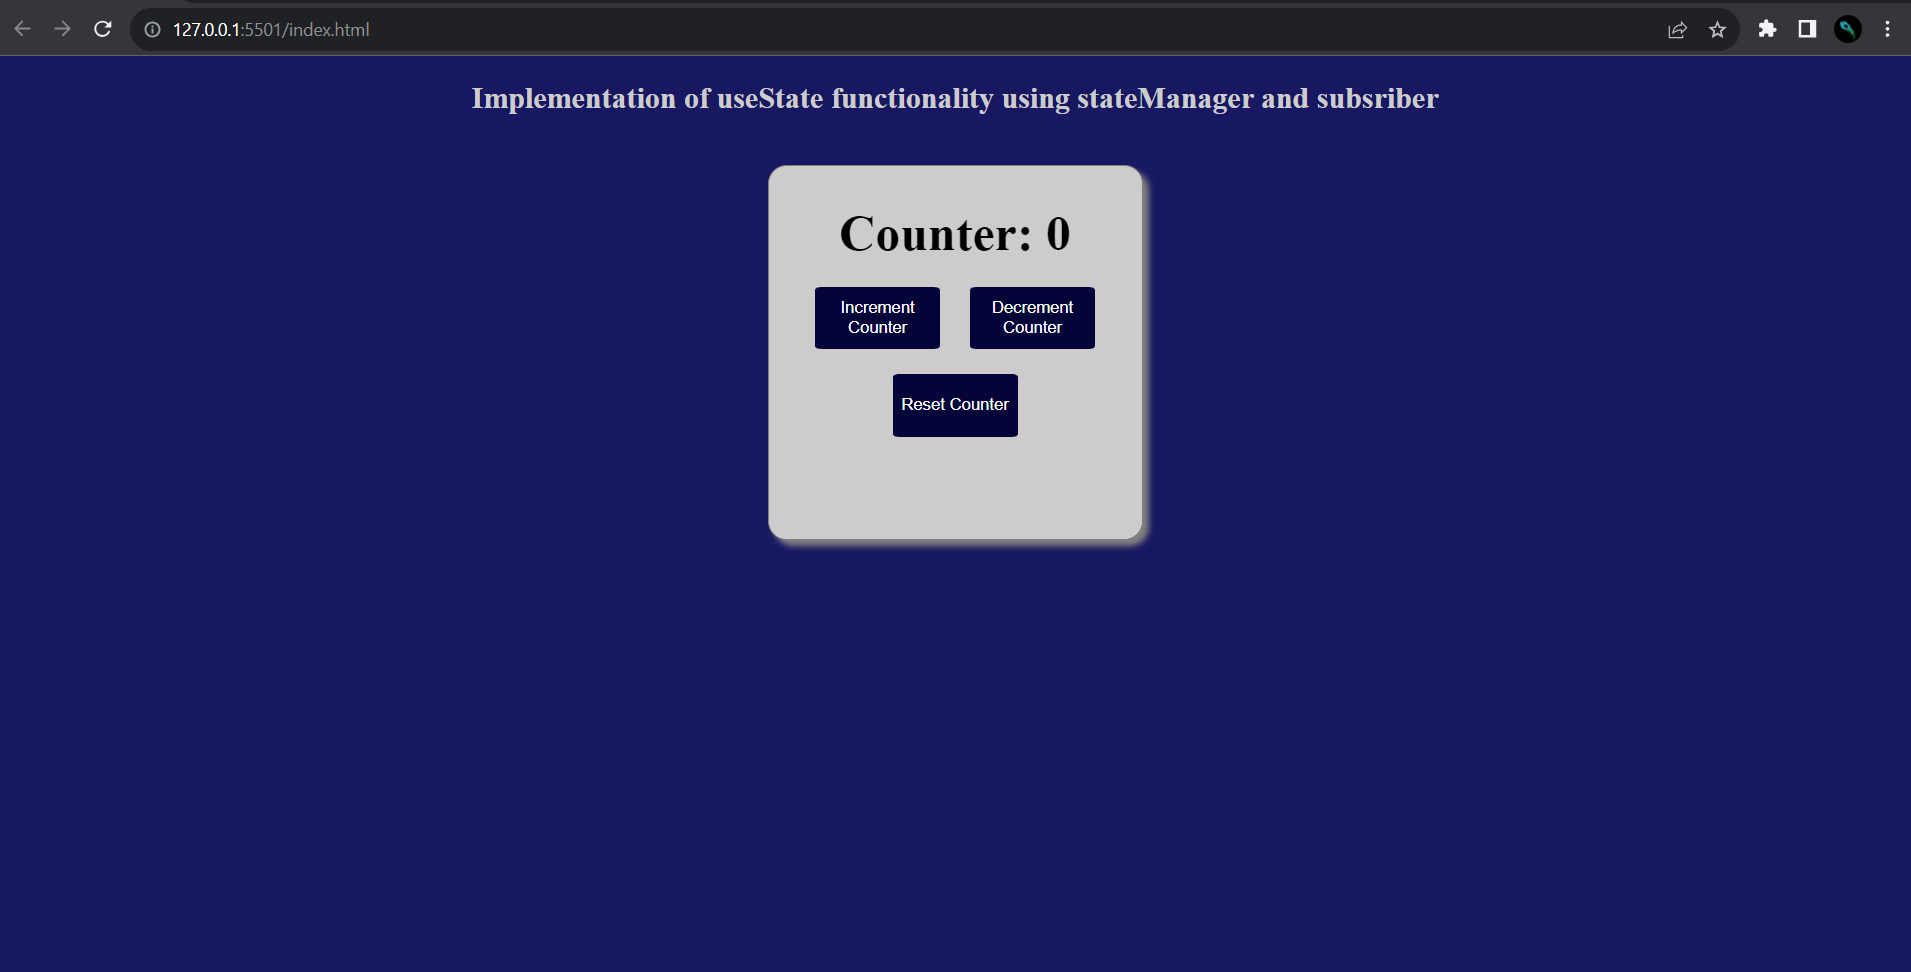
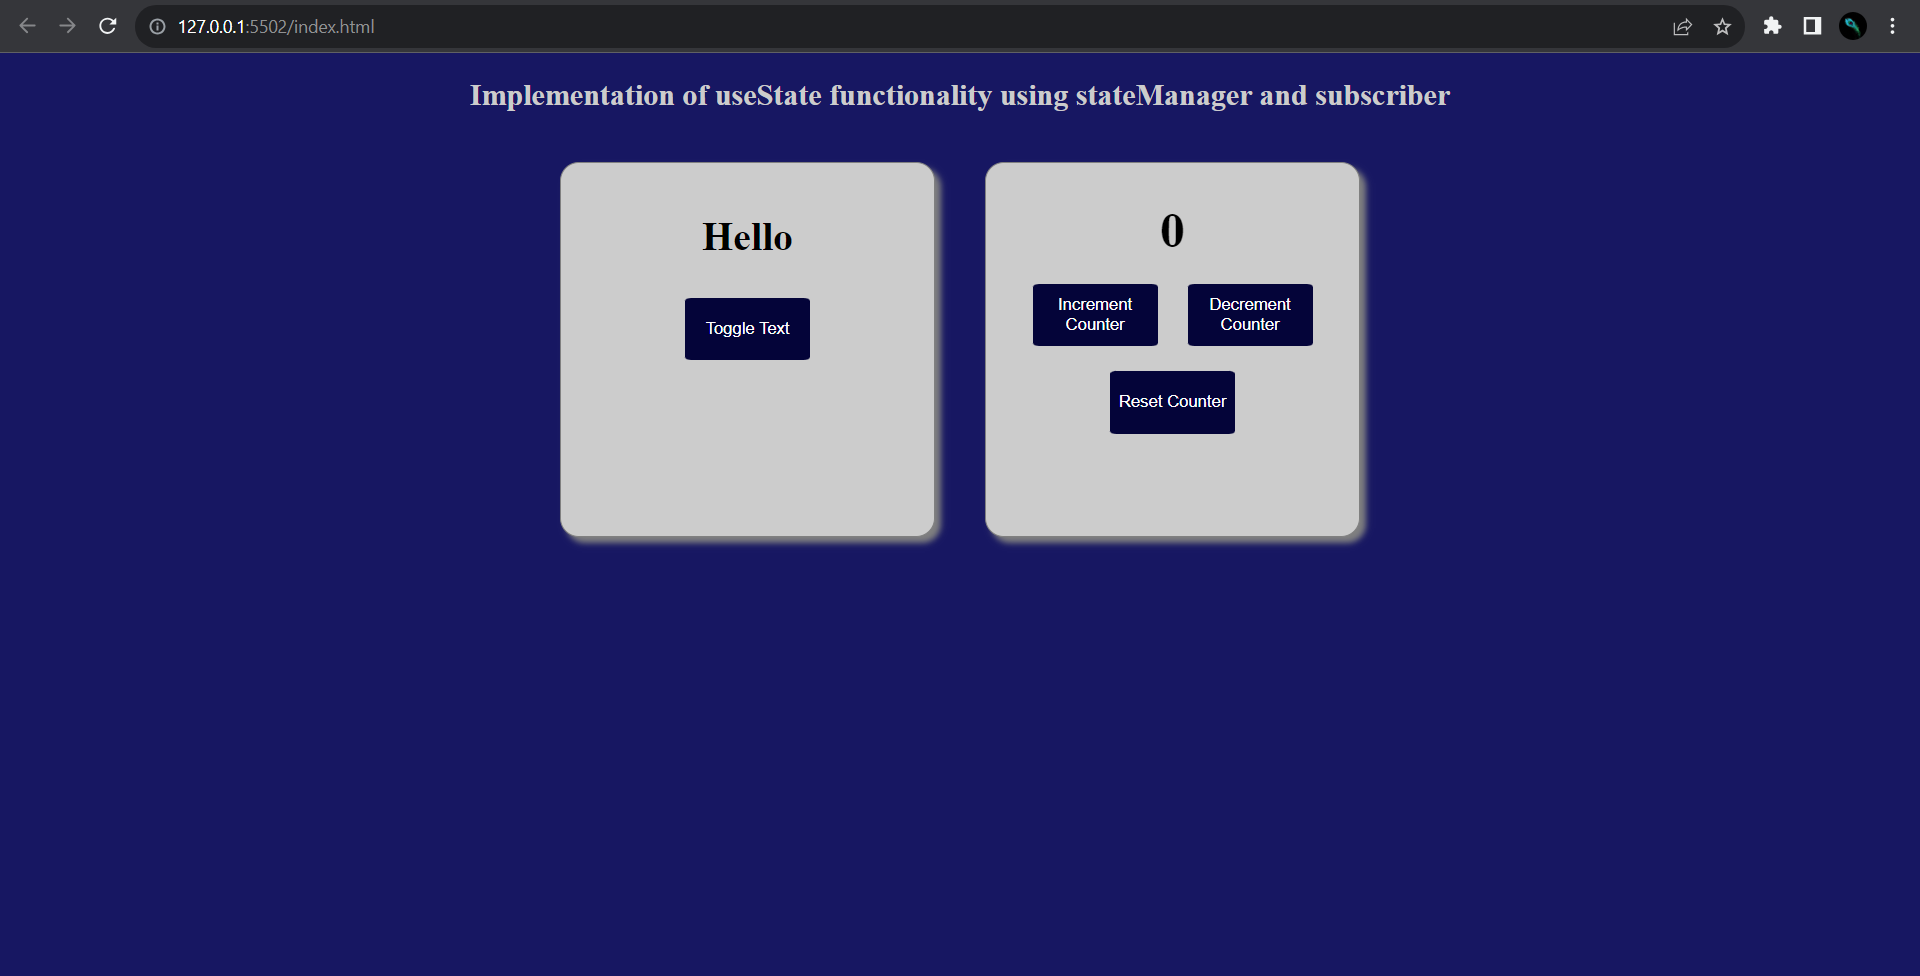
Multiple state components

Changed region(s): [[0.2779, 0.1543, 0.7101, 0.5864], [0.0, 0.0, 1.0, 0.0617], [0.247, 0.0926, 0.7718, 0.1235]]

diff --git a/script.js b/script.js
@@ -11,7 +11,6 @@ class StateManager {
   setState(newState) {
     this.state = newState;
     this.notifySubscribers();
-    localStorage.setItem("counter", newState);
   }
 
   subscribe(subscriber) {
@@ -37,14 +36,25 @@ class Renderer {
   }
 
   update(newState) {
-    this.element.textContent = `Counter: ${newState}`;
+    this.element.textContent = `${newState}`;
   }
 }
 
 document.addEventListener("DOMContentLoaded", () => {
   const counter = parseInt(localStorage.getItem("counter")) || 0;
   const counterManager = new StateManager(counter);
+  const text = localStorage.getItem("text") || "Hello";
+  const textManager = new StateManager(text);
 
+  const appRenderer2 = new Renderer("app", textManager);
+  const toggleButton = document.getElementById("toggleButton");
+
+  toggleButton.addEventListener("click", () => {
+    const currentState = textManager.getState();
+    const newState = currentState === "Hello" ? "Bye" : "Hello";
+    textManager.setState(newState);
+    localStorage.setItem("text", newState);
+  });
   const appRenderer = new Renderer("counter", counterManager);
   const incrementButton = document.getElementById("incrementButton");
   const decrementButton = document.getElementById("decrementButton");
@@ -54,19 +64,23 @@ document.addEventListener("DOMContentLoaded", () => {
     const currentState = counterManager.getState();
     const newState = currentState + 1;
     counterManager.setState(newState);
+    localStorage.setItem("counter", newState);
   });
 
   decrementButton.addEventListener("click", () => {
     const currentState = counterManager.getState();
     const newState = currentState - 1;
     counterManager.setState(newState);
+    localStorage.setItem("counter", newState);
   });
 
   resetButton.addEventListener("click", () => {
     const newState = 0;
     counterManager.setState(newState);
+    localStorage.setItem("counter", newState);
   });
 
   // Initial render
   appRenderer.update(counter);
+  appRenderer2.update(text);
 });

diff --git a/index.html b/index.html
@@ -8,9 +8,13 @@
   </head>
   <body>
     <h2 class="heading">
-      Implementation of useState functionality using stateManager and subsriber
+      Implementation of useState functionality using stateManager and subscriber
     </h2>
     <div class="styling-container">
+      <div class="container">
+        <h1 class="heading" id="app">Hello</h1>
+        <button class="btn" id="toggleButton">Toggle Text</button>
+      </div>
       <div class="container">
         <div id="counter">0</div>
         <button id="incrementButton" class="btn">Increment Counter</button>

diff --git a/css/style.css b/css/style.css
@@ -41,6 +41,7 @@ body{
     padding: 2px;
     margin: 10px;
     cursor:pointer;
+    font-weight: 500;
 }
 .btn:hover{
     background-color: rgb(22, 22, 185);

diff --git a/README.md b/README.md
@@ -4,8 +4,9 @@ Objective: To implement functionality similar to React useState hook without usi
 
 _Features_
 
--It uses local storage to preserve the state
--It uses stateManager class and subscriber method
+- It uses local storage to preserve the state
+- It uses stateManager class and subscriber method
+- Multiple state components are there
 
 Screenshots:
 
